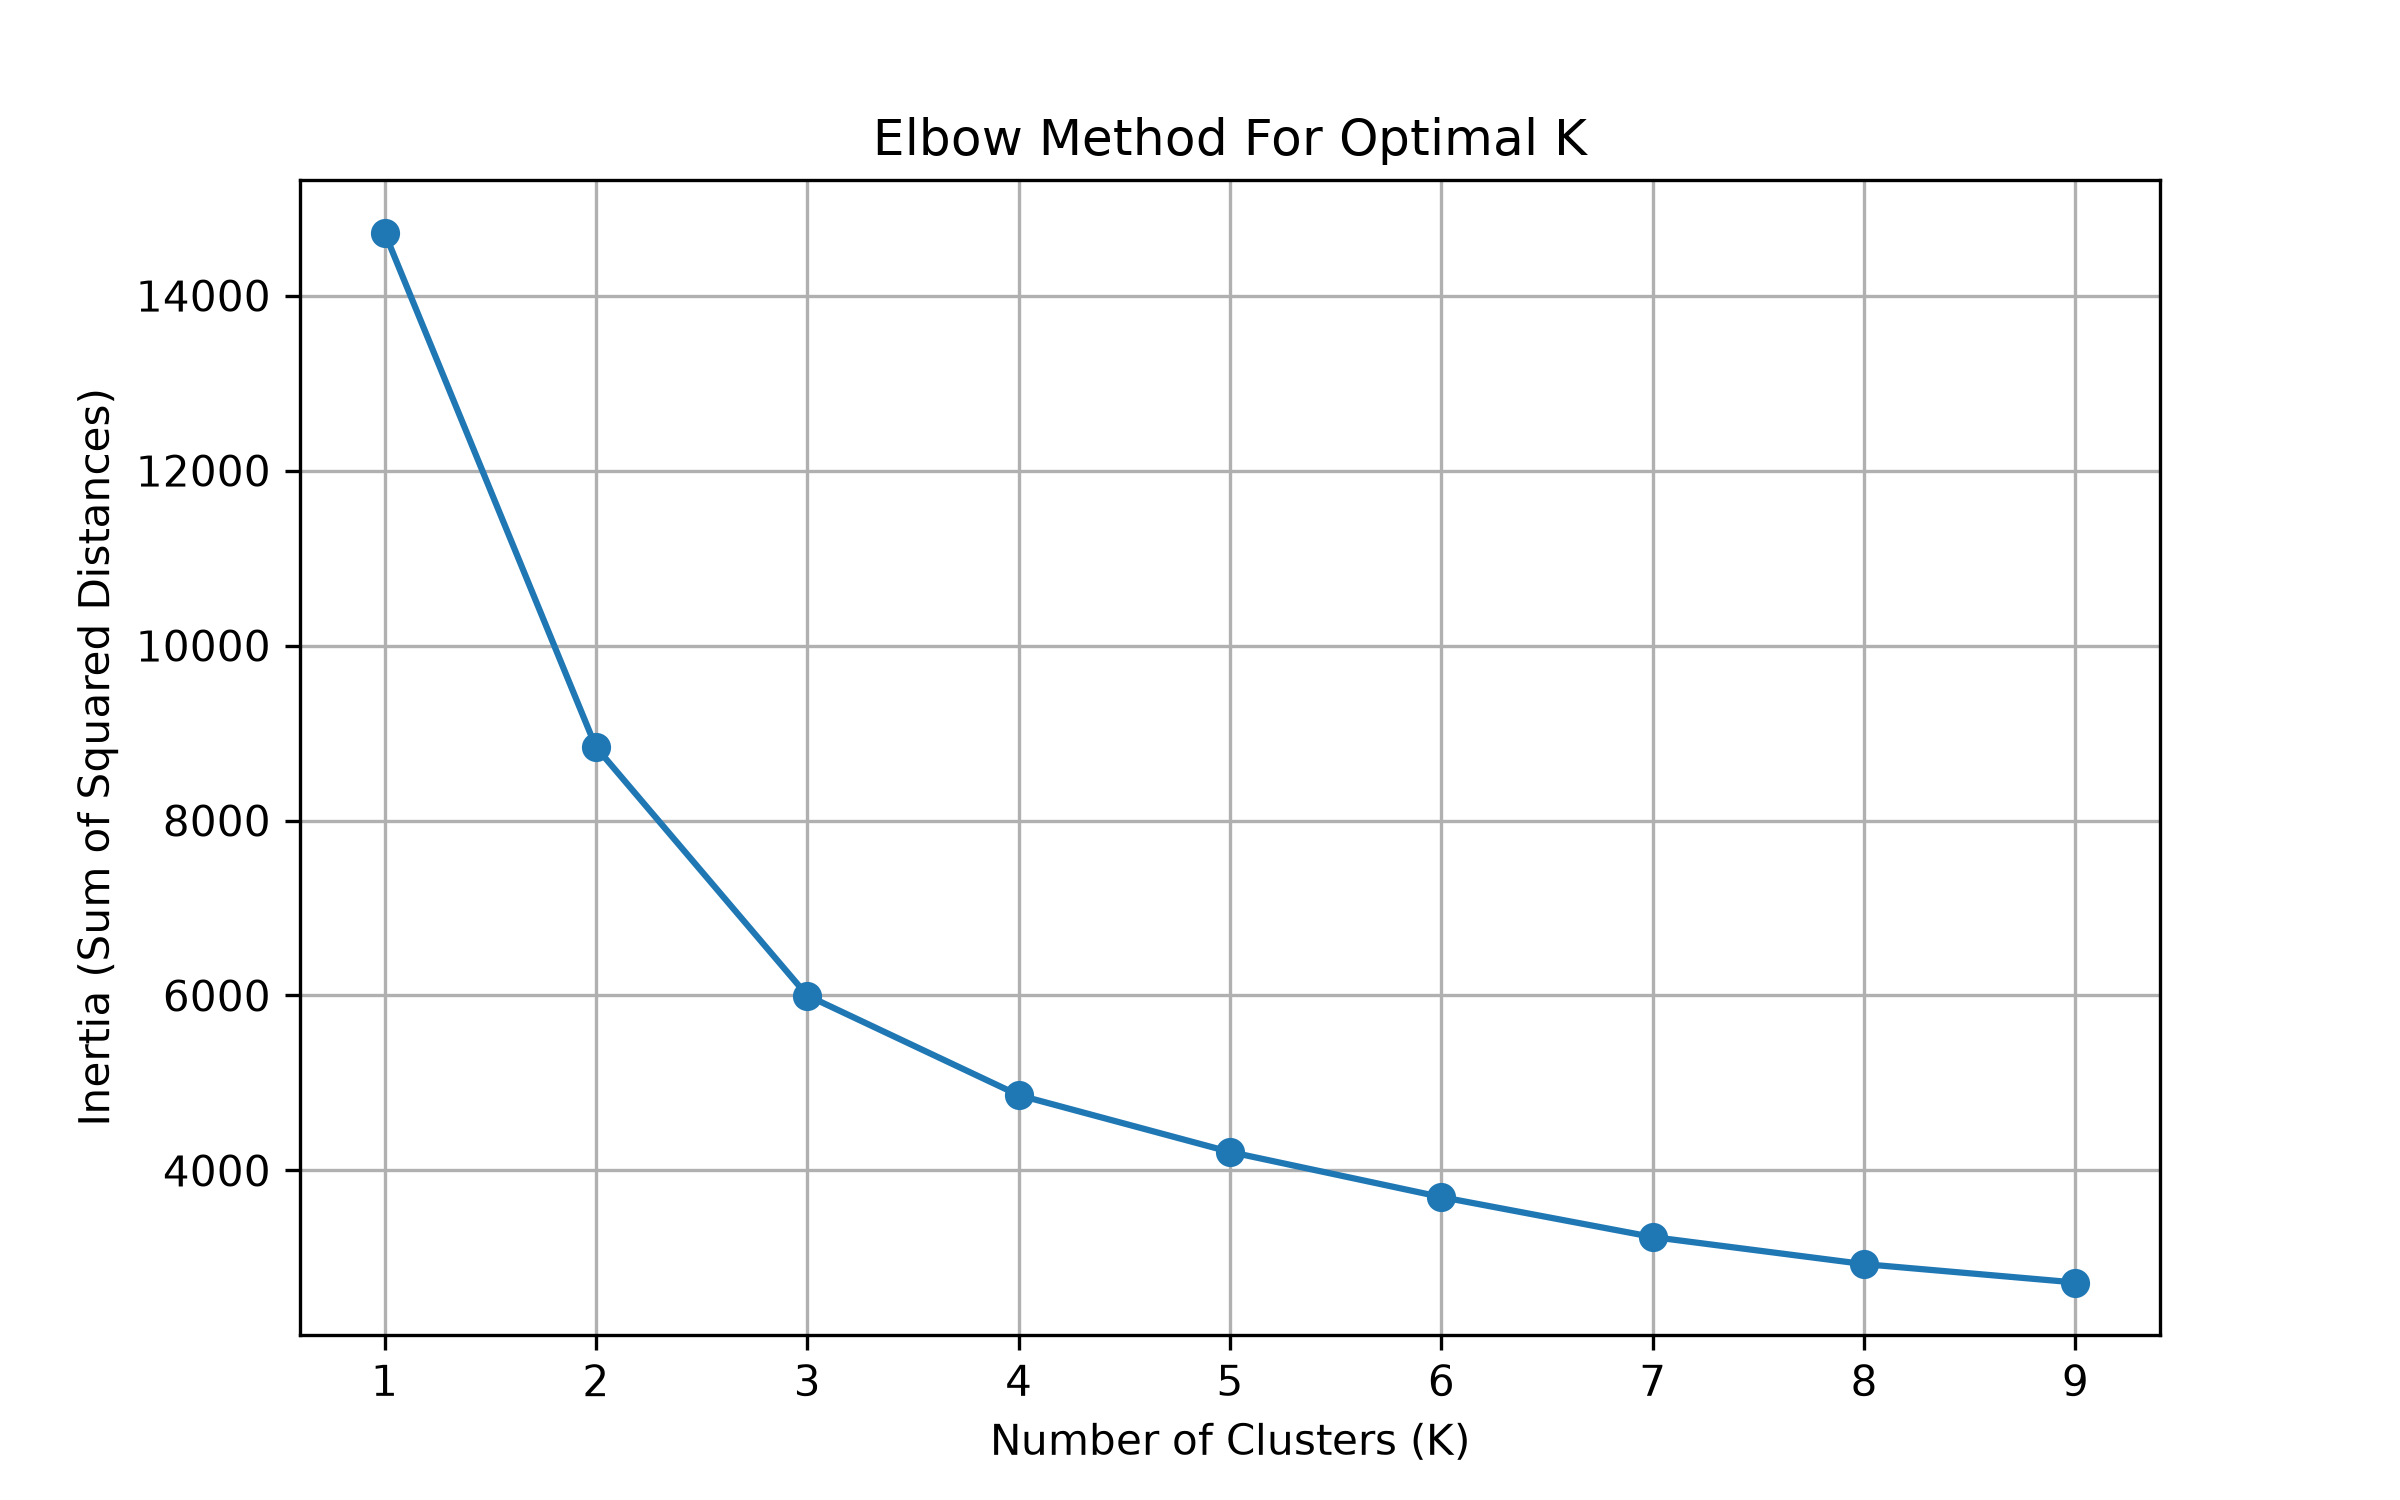
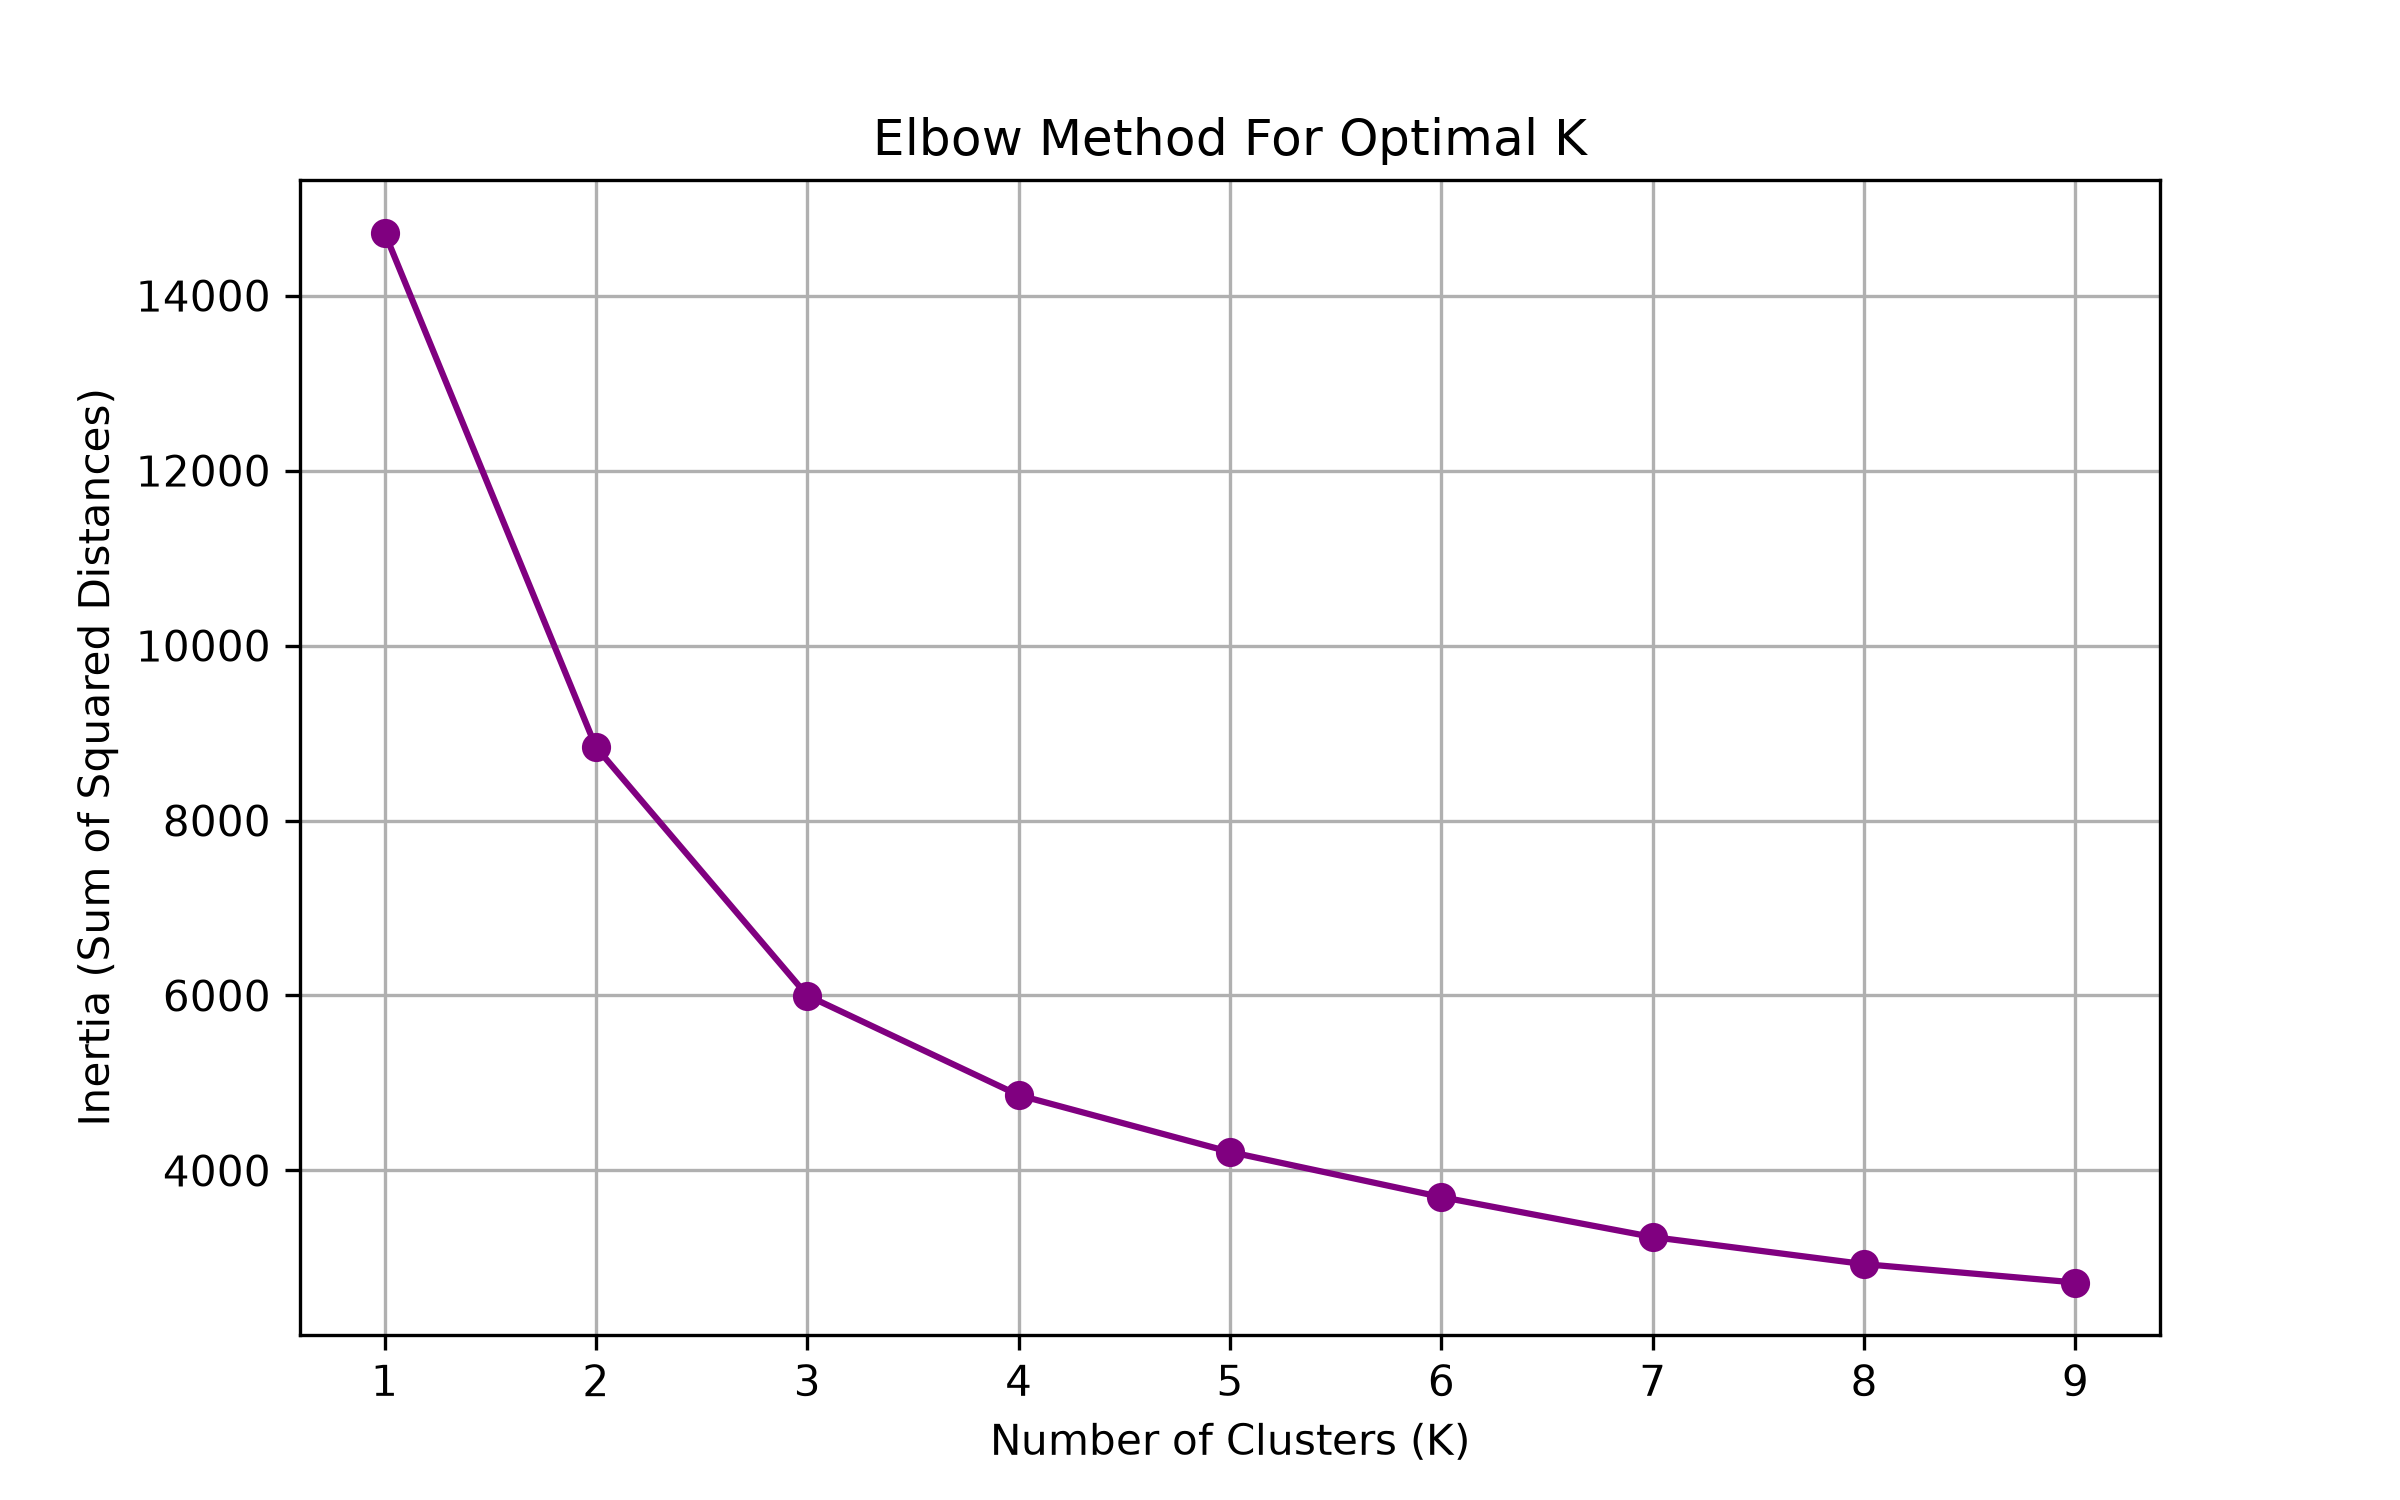
docs: write highly professional README and add extra correlation, CLV, and power analysis matrices

diff --git a/scripts/5_ab_test_bootstrapping.py b/scripts/5_ab_test_bootstrapping.py
@@ -1,21 +1,25 @@
 """
-Script 5: Advanced A/B Testing via Bootstrapping
+Script 5: Advanced A/B Testing via Bootstrapping & Power Analysis
 
 A simple t-test just provides a p-value. To provide deep business value, 
 I use Statistical Bootstrapping. By resampling the A/B test data 10,000 times, 
 I can simulate thousands of alternative realities to calculate the 95% Confidence Interval 
 of the actual revenue lift caused by the new UI.
+
+I also run a Statistical Power Analysis to prove that our sample size is sufficient 
+to detect this revenue lift, avoiding false negatives (Type II Errors).
 """
 import os
 import pandas as pd
 import numpy as np
 import matplotlib.pyplot as plt
 import seaborn as sns
+from statsmodels.stats.power import TTestIndPower
 
 DATA_DIR = "data/raw"
 FIGURES_DIR = "reports/figures"
 
-def run_bootstrapping():
+def run_bootstrapping_and_power():
     print("Running Statistical Bootstrapping for A/B Test...")
     os.makedirs(FIGURES_DIR, exist_ok=True)
     
@@ -24,26 +28,42 @@ def run_bootstrapping():
     control_rev = df[df['Group'] == 'Control']['CheckoutRevenue'].values
     variant_rev = df[df['Group'] == 'Variant']['CheckoutRevenue'].values
     
+    # 1. Statistical Power Analysis Curve
+    print("Running Power Analysis...")
+    effect_size = (np.mean(variant_rev) - np.mean(control_rev)) / np.std(control_rev)
+    power_analysis = TTestIndPower()
+    
+    sample_sizes = np.array(range(500, 10000, 500))
+    powers = [power_analysis.power(effect_size=effect_size, nobs1=n, alpha=0.05, ratio=1.0, alternative='two-sided') for n in sample_sizes]
+    
+    plt.figure(figsize=(8, 5))
+    plt.plot(sample_sizes, powers, marker='o', color='darkorange', linewidth=2)
+    plt.title('Statistical Power Curve vs Sample Size')
+    plt.xlabel('Sample Size per Group')
+    plt.ylabel('Statistical Power (1 - Type II Error)')
+    plt.axhline(0.80, color='red', linestyle='--', label='80% Power Threshold')
+    plt.axvline(len(control_rev), color='green', linestyle='-', label=f'Actual Sample Size ({len(control_rev)})')
+    plt.legend()
+    plt.grid(True)
+    plt.savefig(os.path.join(FIGURES_DIR, "statistical_power_curve.png"), dpi=300, bbox_inches='tight')
+    plt.close()
+    
+    # 2. Bootstrapping (10,000 Simulations)
     n_iterations = 10000
     np.random.seed(42)
     
-    # Initialize arrays to store bootstrapped means
     boot_control = np.empty(n_iterations)
     boot_variant = np.empty(n_iterations)
     
-    # Perform Bootstrapping
     for i in range(n_iterations):
         boot_control[i] = np.mean(np.random.choice(control_rev, size=len(control_rev), replace=True))
         boot_variant[i] = np.mean(np.random.choice(variant_rev, size=len(variant_rev), replace=True))
         
-    # Calculate the difference (Lift)
     lift = boot_variant - boot_control
     
-    # Calculate 95% Confidence Interval
     ci_lower = np.percentile(lift, 2.5)
     ci_upper = np.percentile(lift, 97.5)
     
-    # Plot the KDE Distribution
     plt.figure(figsize=(10, 6))
     sns.kdeplot(lift, fill=True, color='purple', alpha=0.5)
     
@@ -64,4 +84,4 @@ def run_bootstrapping():
     print(f"95% Confidence Interval: [${ci_lower:.2f}, ${ci_upper:.2f}]")
 
 if __name__ == "__main__":
-    run_bootstrapping()
+    run_bootstrapping_and_power()

diff --git a/scripts/4_cohort_analysis.py b/scripts/4_cohort_analysis.py
@@ -1,9 +1,8 @@
 """
-Script 4: Advanced Cohort Analysis
+Script 4: Advanced Cohort Analysis & Customer Lifetime Value (CLV)
 
-I perform a cohort analysis to track customer retention over time.
-This generates a classic Data Science retention heatmap, showing the percentage 
-of customers who return in subsequent months after their first purchase.
+I perform a cohort analysis to track customer retention over time, generating 
+a retention heatmap matrix. I also calculate and plot the Customer Lifetime Value (CLV) distribution.
 """
 import os
 import pandas as pd
@@ -15,13 +14,25 @@ DATA_DIR = "data/raw"
 FIGURES_DIR = "reports/figures"
 
 def run_cohort_analysis():
-    print("Running Cohort Analysis...")
+    print("Running Cohort Analysis and CLV Calculation...")
     os.makedirs(FIGURES_DIR, exist_ok=True)
     
     df = pd.read_csv(os.path.join(DATA_DIR, "transactions.csv"))
     df['Date'] = pd.to_datetime(df['Date'])
     
-    # Create InvoiceMonth and CohortMonth
+    # 1. Customer Lifetime Value (CLV) Distribution Plot
+    clv = df.groupby('CustomerID')['Revenue'].sum()
+    plt.figure(figsize=(10, 6))
+    sns.histplot(clv, bins=50, kde=True, color='teal')
+    plt.title('Customer Lifetime Value (CLV) Distribution')
+    plt.xlabel('Total Revenue Generated by Customer ($)')
+    plt.ylabel('Number of Customers')
+    plt.axvline(clv.mean(), color='red', linestyle='dashed', linewidth=2, label=f'Mean CLV: ${clv.mean():.2f}')
+    plt.legend()
+    plt.savefig(os.path.join(FIGURES_DIR, "clv_distribution.png"), dpi=300, bbox_inches='tight')
+    plt.close()
+    
+    # 2. Create InvoiceMonth and CohortMonth
     df['InvoiceMonth'] = df['Date'].dt.to_period('M')
     df['CohortMonth'] = df.groupby('CustomerID')['InvoiceMonth'].transform('min')
     
@@ -44,9 +55,9 @@ def run_cohort_analysis():
     cohort_sizes = cohort_counts.iloc[:, 0]
     retention = cohort_counts.divide(cohort_sizes, axis=0) * 100
     
-    # Plot the Retention Heatmap
+    # Plot the Retention Heatmap Matrix
     plt.figure(figsize=(12, 8))
-    plt.title('Customer Retention Rates by Monthly Cohort (%)')
+    plt.title('Customer Retention Matrix by Monthly Cohort (%)')
     sns.heatmap(retention, annot=True, fmt='.1f', cmap='YlGnBu', vmin=0.0, vmax=100.0)
     plt.ylabel('Cohort Month')
     plt.xlabel('Months Since First Purchase')
@@ -57,7 +68,7 @@ def run_cohort_analysis():
     plt.savefig(os.path.join(FIGURES_DIR, "cohort_retention_heatmap.png"), dpi=300, bbox_inches='tight')
     plt.close()
     
-    print("Cohort Analysis complete. Saved heatmap.")
+    print("Cohort Analysis complete. Saved heatmap matrix and CLV distribution.")
 
 if __name__ == "__main__":
     run_cohort_analysis()

diff --git a/scripts/3_customer_clustering.py b/scripts/3_customer_clustering.py
@@ -23,6 +23,13 @@ def run_clustering():
     
     rfm = pd.read_csv(os.path.join(PROCESSED_DIR, "rfm_data.csv"))
     
+    # 0. Generate Correlation Matrix Heatmap
+    plt.figure(figsize=(8, 6))
+    sns.heatmap(rfm[['Recency', 'Frequency', 'Monetary']].corr(), annot=True, cmap='coolwarm', vmin=-1, vmax=1)
+    plt.title('RFM Feature Correlation Matrix')
+    plt.savefig(os.path.join(FIGURES_DIR, "rfm_correlation_matrix.png"), dpi=300)
+    plt.close()
+    
     # We must scale the data because Monetary is in hundreds but Frequency is single digits
     scaler = StandardScaler()
     rfm_scaled = scaler.fit_transform(rfm[['Recency', 'Frequency', 'Monetary']])
@@ -36,7 +43,7 @@ def run_clustering():
         inertia.append(kmeans.inertia_)
         
     plt.figure(figsize=(8, 5))
-    plt.plot(K_range, inertia, marker='o')
+    plt.plot(K_range, inertia, marker='o', color='purple')
     plt.title('Elbow Method For Optimal K')
     plt.xlabel('Number of Clusters (K)')
     plt.ylabel('Inertia (Sum of Squared Distances)')
@@ -51,9 +58,9 @@ def run_clustering():
     
     # 2. Visualize the RFM distributions across clusters
     fig, axes = plt.subplots(1, 3, figsize=(18, 5))
-    sns.boxplot(x='Cluster', y='Recency', data=rfm, ax=axes[0], palette='Set2')
-    sns.boxplot(x='Cluster', y='Frequency', data=rfm, ax=axes[1], palette='Set2')
-    sns.boxplot(x='Cluster', y='Monetary', data=rfm, ax=axes[2], palette='Set2')
+    sns.boxplot(x='Cluster', y='Recency', hue='Cluster', data=rfm, ax=axes[0], palette='Set2', legend=False)
+    sns.boxplot(x='Cluster', y='Frequency', hue='Cluster', data=rfm, ax=axes[1], palette='Set2', legend=False)
+    sns.boxplot(x='Cluster', y='Monetary', hue='Cluster', data=rfm, ax=axes[2], palette='Set2', legend=False)
     plt.suptitle('RFM Distribution by K-Means Cluster')
     plt.savefig(os.path.join(FIGURES_DIR, "cluster_rfm_boxplots.png"), dpi=300)
     plt.close()

diff --git a/README.md b/README.md
@@ -1,34 +1,48 @@
-# 📊 Advanced Data Science: Unsupervised Learning & Statistical Bootstrapping
+# 📊 Advanced Data Science: Unsupervised Learning & Statistical Simulation
 
 Welcome to my Data Science project! My name is **Farhan Ahmad Ansari**, and I built this repository to showcase advanced Unsupervised Machine Learning, Dimensionality Reduction, and Statistical Simulations.
 
 While my other projects focus on predictive AI (Machine Learning and Deep Learning), this project proves my ability to discover hidden patterns in raw data and prove business value using rigorous statistical math.
 
-## 💡 The Architecture
+## 💡 The Architecture & Results
 
 This project simulates a massive E-commerce environment and processes it using the following advanced pipeline:
 
-1. **Unsupervised Machine Learning (K-Means)**:
-   - Instead of relying on human bias to group customers, I used **K-Means Clustering** to algorithmically discover distinct behavioral segments based on Recency, Frequency, and Monetary (RFM) features.
-   - I used the mathematical **Elbow Method** to determine the optimal number of clusters.
+### 1. Unsupervised Machine Learning (K-Means)
+Instead of relying on human bias to group customers, I used **K-Means Clustering** to algorithmically discover distinct behavioral segments based on Recency, Frequency, and Monetary (RFM) features. I used the mathematical **Elbow Method** to determine the optimal number of clusters.
 
-2. **Dimensionality Reduction (PCA)**:
-   - To visualize high-dimensional customer behavior, I implemented **Principal Component Analysis (PCA)** to reduce the feature space and plot the K-Means clusters in a 2D projection.
+![K-Means Elbow Curve](reports/figures/kmeans_elbow_curve.png)
+![Cluster RFM Boxplots](reports/figures/cluster_rfm_boxplots.png)
 
-3. **Advanced Cohort Analysis**:
-   - I computed and visualized a classic **Customer Retention Heatmap**, tracking the percentage drop-off of customers month-over-month.
+### 2. Dimensionality Reduction (PCA)
+To visualize high-dimensional customer behavior, I implemented **Principal Component Analysis (PCA)** to reduce the feature space and plot the K-Means clusters in a 2D projection. This mathematically proves how distinct the groups are.
 
-4. **A/B Testing via Bootstrapping**:
-   - Instead of just calculating a simple p-value via a T-Test, I implemented **Monte Carlo Bootstrapping**.
-   - By simulating 10,000 alternative realities of an A/B test, I calculated the **95% Confidence Interval** for the exact revenue lift caused by a UI redesign.
+![PCA 2D Cluster Visualization](reports/figures/pca_clusters_2d.png)
+
+### 3. Advanced Cohort Analysis & CLV
+I computed a **Customer Retention Heatmap**, tracking the percentage drop-off of customers month-over-month. I also analyzed the **Customer Lifetime Value (CLV)** distribution across the entire user base.
+
+![Cohort Retention Heatmap](reports/figures/cohort_retention_heatmap.png)
+![CLV Distribution](reports/figures/clv_distribution.png)
+![RFM Correlation Matrix](reports/figures/rfm_correlation_matrix.png)
+
+### 4. A/B Testing via Bootstrapping & Power Analysis
+Instead of just calculating a simple p-value via a T-Test, I implemented **Monte Carlo Bootstrapping**. By simulating 10,000 alternative realities of an A/B test, I calculated the **95% Confidence Interval** for the exact revenue lift caused by a UI redesign. I also performed a **Statistical Power Analysis** to prove my sample size was large enough to avoid False Negatives.
+
+**Results:**
+- **Mean Revenue Lift:** $1.63 per user
+- **95% Confidence Interval:** [$0.97, $2.28] (Statistically Significant)
+
+![Statistical Power Curve](reports/figures/statistical_power_curve.png)
+![Bootstrap Distribution](reports/figures/ab_test_bootstrap_kde.png)
 
 ## 📂 Project Structure
 
 - `scripts/1_generate_data.py`: Simulates 20,000 raw E-commerce transactions and 10,000 A/B test logs.
 - `scripts/2_run_etl.py`: The ETL pipeline that cleans data and computes raw RFM vectors.
-- `scripts/3_customer_clustering.py`: Executes K-Means and PCA.
-- `scripts/4_cohort_analysis.py`: Computes and plots the Retention Heatmap.
-- `scripts/5_ab_test_bootstrapping.py`: Runs the 10,000 statistical simulations.
+- `scripts/3_customer_clustering.py`: Executes K-Means, PCA, and Correlation Matrices.
+- `scripts/4_cohort_analysis.py`: Computes the Retention Heatmap and CLV distributions.
+- `scripts/5_ab_test_bootstrapping.py`: Runs 10k simulations and Power Analysis.
 - `requirements.txt`: Python dependencies (scikit-learn, seaborn, scipy).
 
 ## 🚀 How to Run Locally
@@ -41,8 +55,6 @@ This project simulates a massive E-commerce environment and processes it using t
    ```bash
    ./run_pipeline.sh
    ```
-
-All of the advanced Data Science visualizations will be saved to the `reports/figures/` directory!
 
 ---
 *Created by Farhan Ahmad Ansari.*
